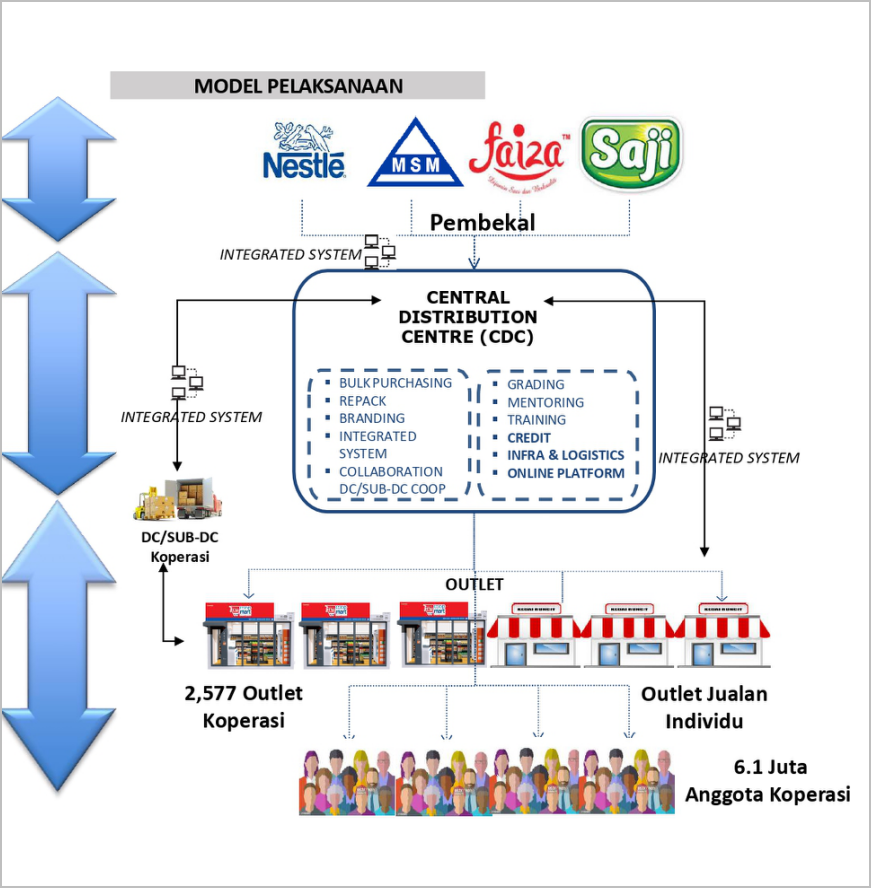
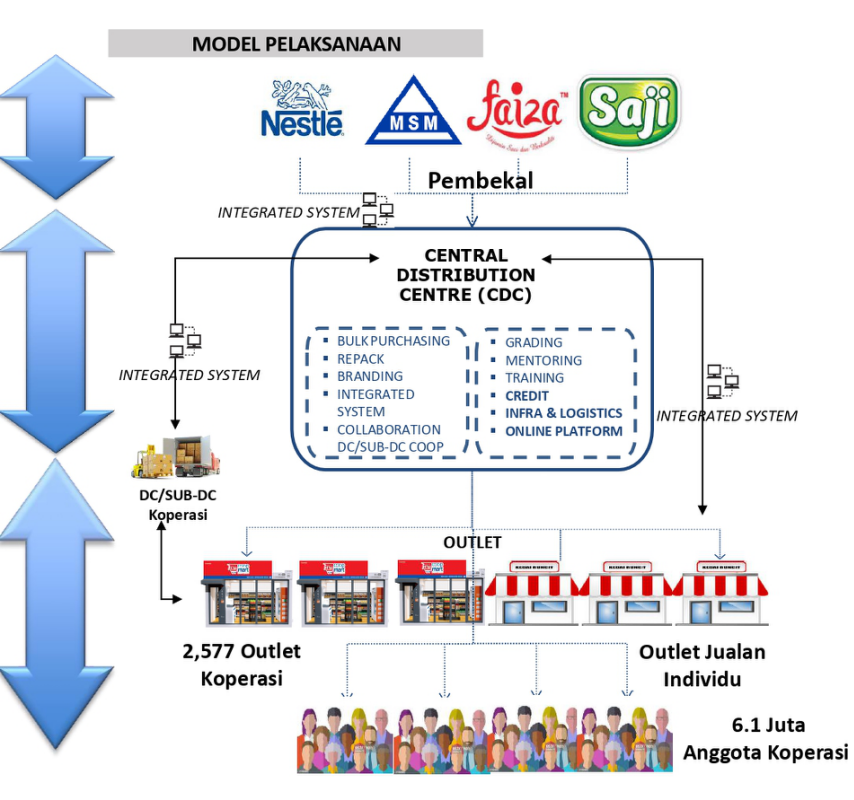
redesign infographic, modify footer

diff --git a/Moderna/assets/css/style.css b/Moderna/assets/css/style.css
@@ -440,17 +440,15 @@ h6,
     width: 5%;
   }
 
-  .services .icon-box img {
-    padding: 30px;
+  .services img {
     position: relative;
     overflow: hidden;
     margin: 0 0 40px 0;
     background: #fff;
-    box-shadow: 0 5px 26px 0 rgba(68, 88, 144, 0.14);
     transition: all 0.3s ease-in-out;
     text-align: center;
     border: 1px solid #fff;
-    height: 400px; width:100%; 
+    height: auto; width:100%; 
   }
 }
 
@@ -683,7 +681,6 @@ section {
 }
 
 .services .icon-box {
-  padding: 30px;
   position: relative;
   overflow: hidden;
   margin: 0 0 40px 0;
@@ -695,15 +692,6 @@ section {
 }
 
 .services .icon-box img {
-  padding: 30px;
-  position: relative;
-  overflow: hidden;
-  margin: 0 0 40px 0;
-  background: #fff;
-  box-shadow: 0 5px 26px 0 rgba(68, 88, 144, 0.14);
-  transition: all 0.3s ease-in-out;
-  text-align: center;
-  border: 1px solid #fff;
   height: 800px; width:100%; 
 }
 
@@ -1314,8 +1302,7 @@ section {
     margin: 0 auto 30px auto;
   }
 
-  .services .icon-box img {
-    padding: 30px;
+  .services img {
     position: relative;
     overflow: hidden;
     margin: 0 0 40px 0;
@@ -1324,7 +1311,7 @@ section {
     transition: all 0.3s ease-in-out;
     text-align: center;
     border: 1px solid #fff;
-    height: 400px; width:100%; 
+    height: 550px; width:100%; 
   }
 
   .team .member img {

diff --git a/Moderna/index.php b/Moderna/index.php
@@ -127,36 +127,39 @@
 
 
     <!-- ======= Services Section ======= -->
-    <section class="services " id="service">
-      <div class="container justify-content-center">
+    <section class="services " id="service1">
       <h2 class="text-center">INFOGRAFIK</h2><br>
+      <div class="container justify-content-center text-center">     <!--to make a whole div href style="cursor: pointer;" onclick="window.location='#';"--> 
+      <h4 class="title"><a>MODEL PELAKSANAAN CENTRAL DISRIBUTION CENTRE (CDC) DALAM SEKTOR PEMBORONGAN DAN PERUNCITAN</a></h4>
 
         <div class="row">
           <div class=" col-lg-12 d-flex align-items-center justify-content-md-center" data-aos="fade-up">
-            <div class="icon-box icon-box-pink">
-            <img src="assets/img/infografik/Picture1.png" alt="" style=" ">
-              <h4 class="title"><a href="">MODEL PELAKSANAAN CENTRAL DISRIBUTION CENTRE (CDC) DALAM SEKTOR PEMBORONGAN DAN PERUNCITAN</a></h4>
+            <div class="icon-box-cyan text-center">
+            <img src="assets/img/infografik/Picture1.png" alt="" style=" "><br>
             </div>
           </div>
-         
+        </div>
 
-          <div class="col-md-10 col-lg-6 d-flex align-items-" data-aos="fade-up" data-aos-delay="100">
-            <div class="icon-box icon-box-cyan">
-            <img src="assets/img/infografik/Picture2.png" alt="" style="height:400px;">
-              <h4 class="title"><a href="">Taburan Koperasi Pemborongan & Peruncitan</a></h4>
+      </div>
+      <section> <!--creating a section to ensure the row of this two column not messed up-->
+      <div class="row justify-content-center text-center">
+
+      <div class="col-md-10 col-lg-6 d-flex align-items-" data-aos="fade-up" data-aos-delay="100">
+            <div class="icon-box-cyan text-center">
+            <h4 class="title"><a>Taburan Koperasi Pemborongan & Peruncitan</a></h4>
+            <img src="assets/img/infografik/Picture2.png" alt="" style="height:350px;">
             </div>
           </div>
 
           <div class="col-md-10 col-lg-6 d-flex align-items-stretch" data-aos="fade-up" data-aos-delay="200">
-            <div class="icon-box icon-box-green">
-            <img src="assets/img/infografik/Picture3.png" alt="" style="height:400px;">
-              <h4 class="title"><a href="">Rangkaian DC/SUB-DC Koperasi & Outlet</a></h4>
+            <div class="icon-box-cyan text-center">              
+            <h4 class="title"><a>Rangkaian DC/SUB-DC Koperasi & Outlet</a></h4>
+            <img src="assets/img/infografik/Picture3.png" alt="" style="height:350px;">
             </div>
           </div>
 
-        </div>
-
       </div>
+      </section>
     </section><!-- End Services Section -->   
 
        <!-- ======= Contact Section ======= -->
@@ -199,19 +202,24 @@
               <form class="php-email-form">
                 <div class="row">
                   <div class="col-md-6 form-group">
-                    <input type="text" name="name" class="form-control" id="name" placeholder="Nama Anda" required>
+                    <input type="text" name="name" class="form-control" id="name" placeholder="Nama Anda" required><br>
                   </div>
                   <div class="col-md-6 form-group mt-3 mt-md-0">
                     <input type="email" class="form-control" name="email" id="email" data-sb-feedback="email:email" placeholder="Email Anda" required>
                   </div>
                 </div>
                 <div class="form-group mt-3">
-                  <input type="text" class="form-control" name="subject" id="subject" placeholder="Subjek" required>
+                  <input type="text" class="form-control" name="subject" id="subject" placeholder="Subjek" required><br>
                 </div>
                 <div class="form-group mt-3">
                   <textarea class="form-control" name="body" id="body" rows="5" placeholder="Mesej Anda" required></textarea>
                 </div>
                 <br>
+                <!--div class="my-3">
+                  <div class="loading">Loading</div>
+                  <div class="error-message"></div>
+                  <div class="sent-message">Your message has been sent. Thank you!</div>
+                </div-->
                 <div class="text-center"><button type="submit"  onclick="sendEmail()">Hantar Mesej</button></div>
                 <h4 class="sent-notification"></h4>
               </form>

diff --git a/Moderna/footer.php b/Moderna/footer.php
@@ -2,10 +2,27 @@
   <footer id="footer" data-aos="fade-up" data-aos-easing="ease-in-out" data-aos-duration="500">
     <div class="footer-top">
       <div class="container">
-        <div class="row">
+        <div class="row justify-content-center">
 
-          <div class="col-lg-3 col-md-6 footer-info">
-            <h3>About Federasi SKM</h3>
+        <div class="col-lg-3 col-md-6 footer-links">
+            <h4>Capaian Pantas</h4> <!--Usefull links-->
+            <ul>
+              <li><i class="bx bx-chevron-right"></i> <a href="https://www.skm.gov.my/index.php/my/">SKM</a></li>
+              <li><i class="bx bx-chevron-right"></i> <a href="https://ekerjaya.skm.gov.my/">Career</a></li>
+            </ul>
+          </div>
+
+          <div class="col-lg-3 col-md-6 footer-links">
+            <h4>Pautan Lain</h4>
+            <ul>
+              <li><i class="bx bx-chevron-right"></i> <a href="#">Soalan Lazim</a></li>
+              <li><i class="bx bx-chevron-right"></i> <a href="#">Terma Servis</a></li> <!--Terms of service-->
+              <li><i class="bx bx-chevron-right"></i> <a href="#">Polisi Keselamatan</a></li> <!--Privacy policy-->
+            </ul>
+          </div>
+          
+          <div class="col-lg-4 col-md-6 footer-info">
+            <h3>Mengenai Federasi Borong</h3>
             <p>Cras fermentum odio eu feugiat lide par naso tierra. Justo eget nada terra videa magna derita valies darta donna mare fermentum iaculis eu non diam phasellus.</p>
             <div class="social-links mt-3">
               <a href="#" class="twitter"><i class="bx bxl-twitter"></i></a>
@@ -13,31 +30,9 @@
               <a href="#" class="instagram"><i class="bx bxl-instagram"></i></a>
               <a href="#" class="linkedin"><i class="bx bxl-linkedin"></i></a>
             </div>
-          </div>
-          
-          <div class="col-lg-3 col-md-6 footer-links">
-            <h4>Useful Links</h4>
-            <ul>
-              <li><i class="bx bx-chevron-right"></i> <a href="https://www.skm.gov.my/index.php/my/">SKM</a></li>
-              <li><i class="bx bx-chevron-right"></i> <a href="https://ekerjaya.skm.gov.my/">Career</a></li>
-              <li><i class="bx bx-chevron-right"></i> <a href="#">FAQs</a></li>
-              <li><i class="bx bx-chevron-right"></i> <a href="#">Terms of service</a></li>
-              <li><i class="bx bx-chevron-right"></i> <a href="#">Privacy policy</a></li>
-            </ul>
-          </div>
+          </div>          
 
-          <div class="col-lg-3 col-md-6 footer-links">
-            <h4>Our Services</h4>
-            <ul>
-              <li><i class="bx bx-chevron-right"></i> <a href="#">Web Design</a></li>
-              <li><i class="bx bx-chevron-right"></i> <a href="#">Web Development</a></li>
-              <li><i class="bx bx-chevron-right"></i> <a href="#">Product Management</a></li>
-              <li><i class="bx bx-chevron-right"></i> <a href="#">Marketing</a></li>
-              <li><i class="bx bx-chevron-right"></i> <a href="#">Graphic Design</a></li>
-            </ul>
-          </div>
-
-          <div class="col-lg-3 col-md-6 footer-contact">
+          <!--div class="col-lg-3 col-md-6 footer-contact">
             <h4>Contact Us</h4>
             <p>
               A108 Adam Street <br>
@@ -47,7 +42,7 @@
               <strong>Email:</strong> info@example.com<br>
             </p>
 
-          </div>
+          </div-->
 
         </div>
       </div>
